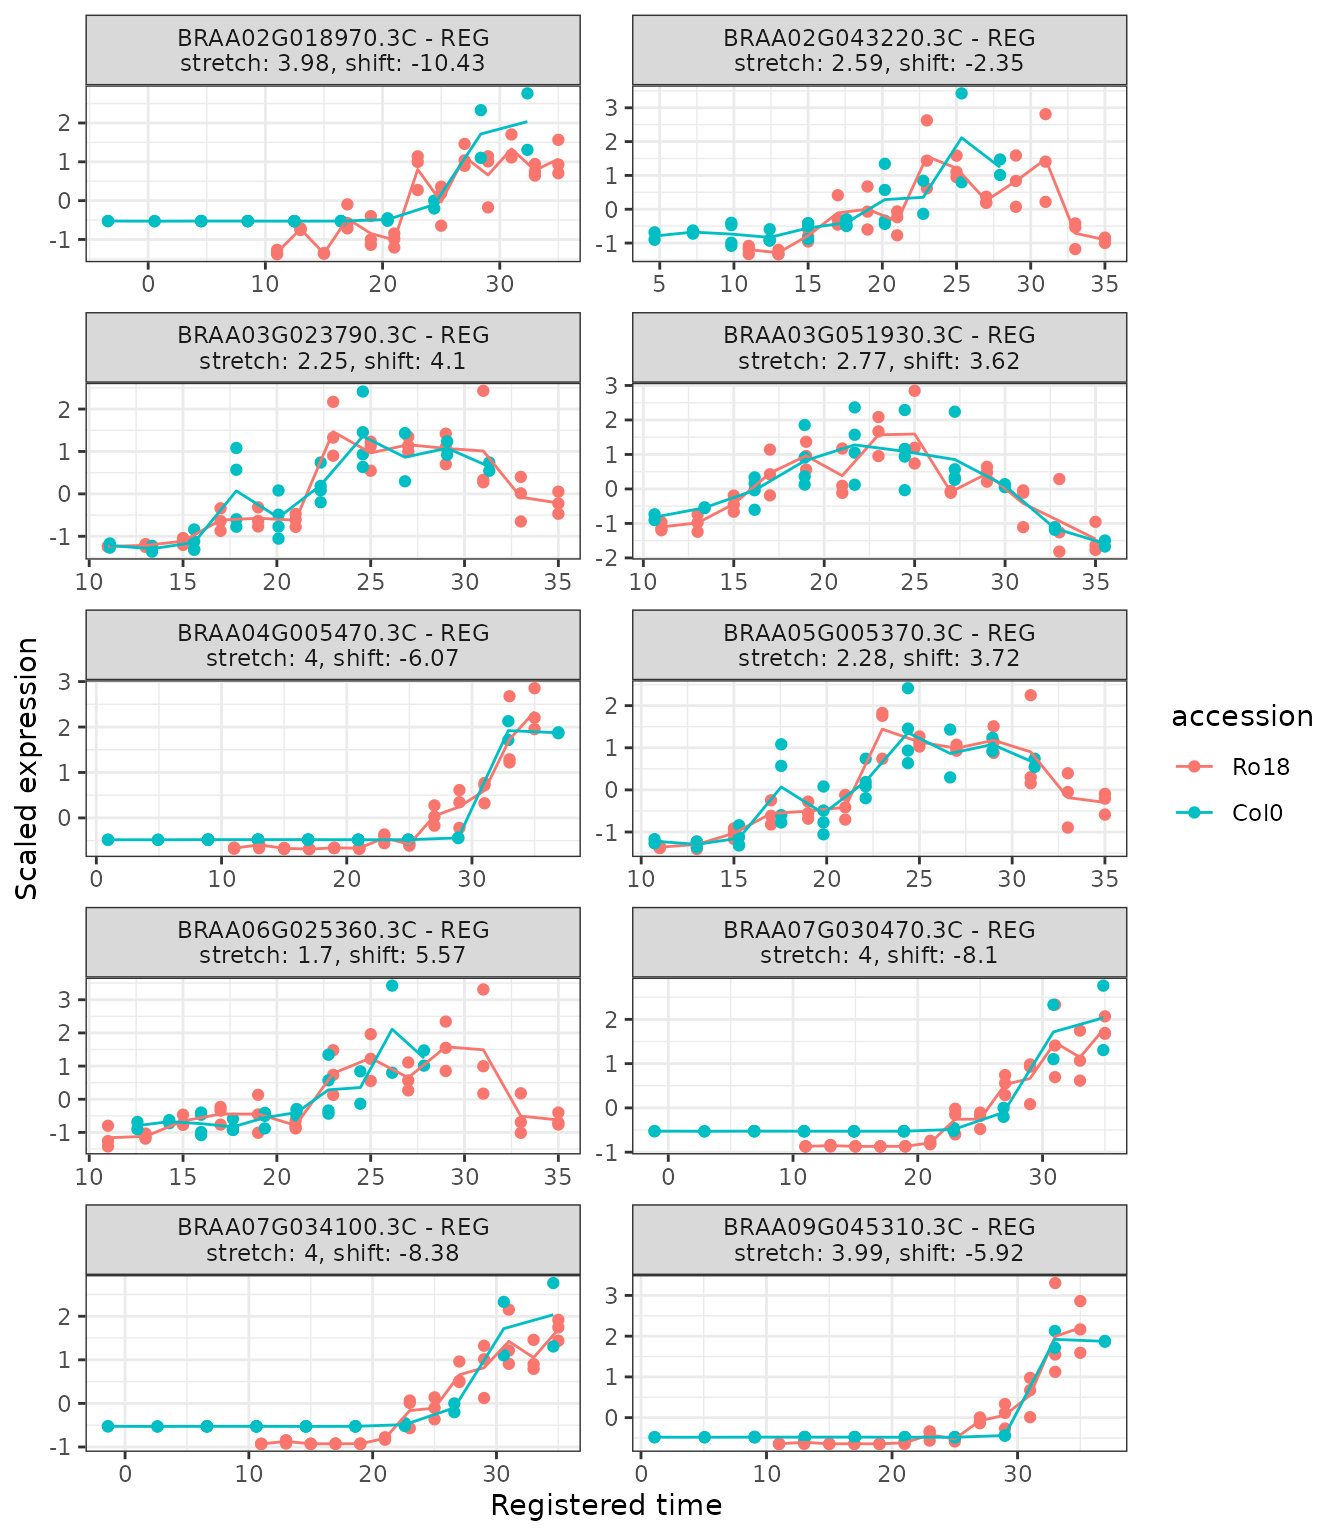
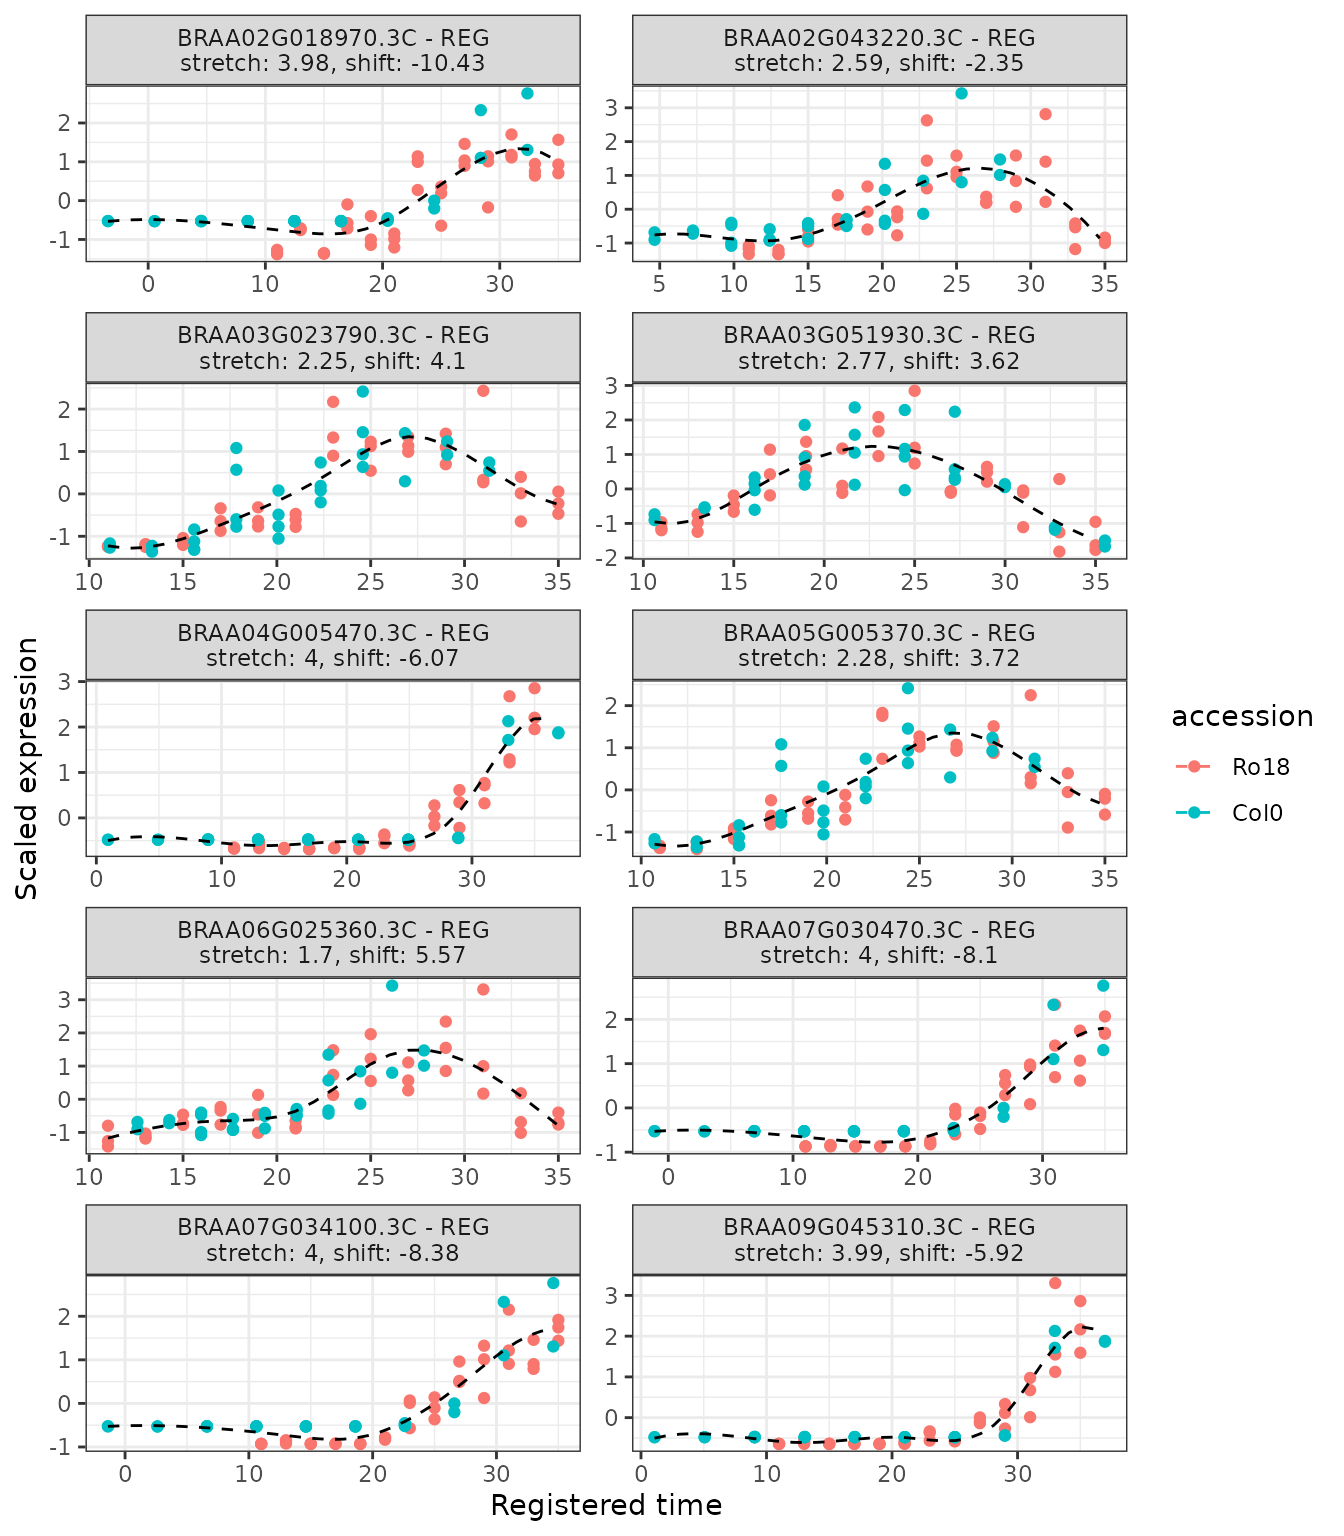
Deploying to gh-pages from @ ruthkr/greatR@9c27a9582fa2c3793a21442d2cda3703a6c4265d 🚀

diff --git a/reference/plot_registration_results.html b/reference/plot_registration_results.html
@@ -66,7 +66,6 @@
     <div class="sourceCode"><pre class="sourceCode r"><code><span><span class="fu">plot_registration_results</span><span class="op">(</span></span>
 <span>  <span class="va">results</span>,</span>
 <span>  type <span class="op">=</span> <span class="fu"><a href="https://rdrr.io/r/base/c.html" class="external-link">c</a></span><span class="op">(</span><span class="st">"registered"</span>, <span class="st">"original"</span><span class="op">)</span>,</span>
-<span>  show_model_fit <span class="op">=</span> <span class="cn">FALSE</span>,</span>
 <span>  genes_list <span class="op">=</span> <span class="cn">NA</span>,</span>
 <span>  title <span class="op">=</span> <span class="cn">NULL</span>,</span>
 <span>  ncol <span class="op">=</span> <span class="cn">NULL</span></span>
@@ -81,10 +80,6 @@
 
 <dt>type</dt>
 <dd><p>Type of plot, determines whether to use "registered" or "original" time points. By default, "registered".</p></dd>
-
-
-<dt>show_model_fit</dt>
-<dd><p>Optionally show model fit used to evaluate \(BIC\) during registration. Only works for <code>type = "registered"</code>.</p></dd>
 
 
 <dt>genes_list</dt>
